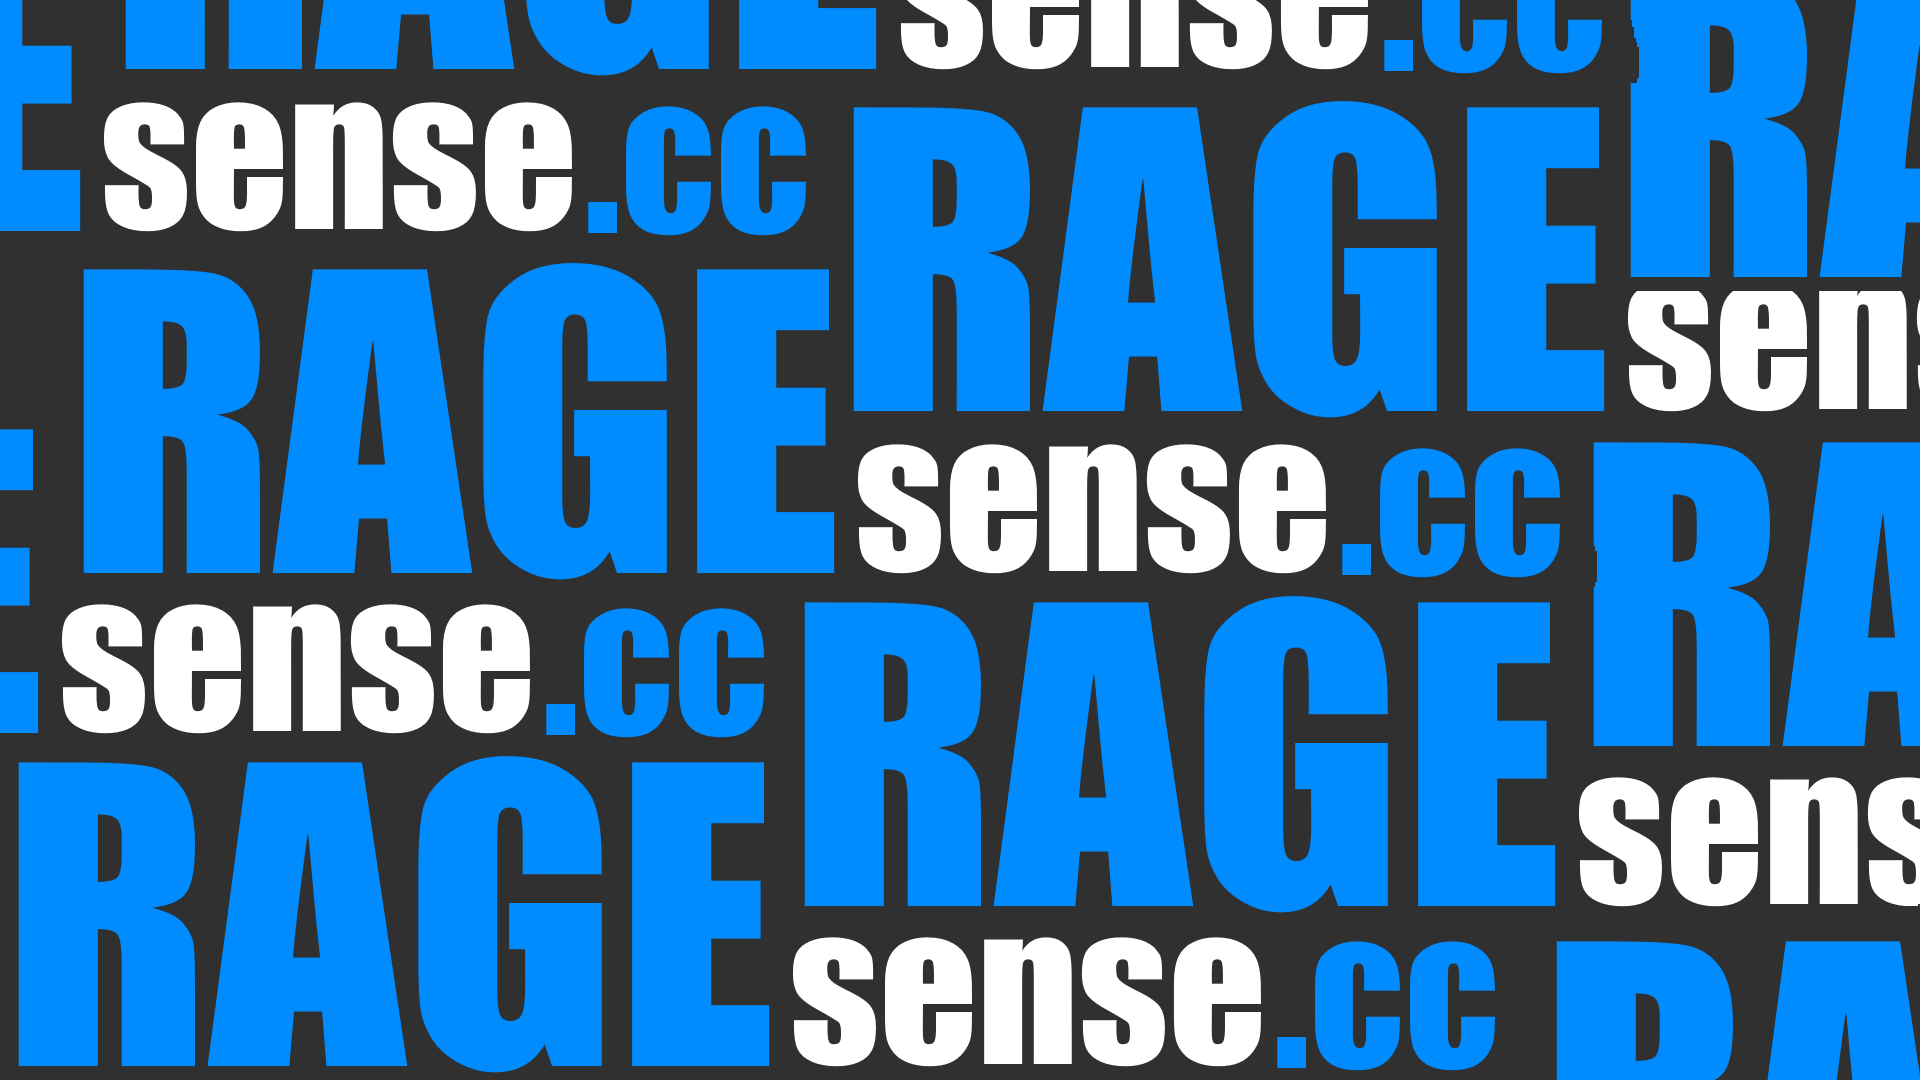
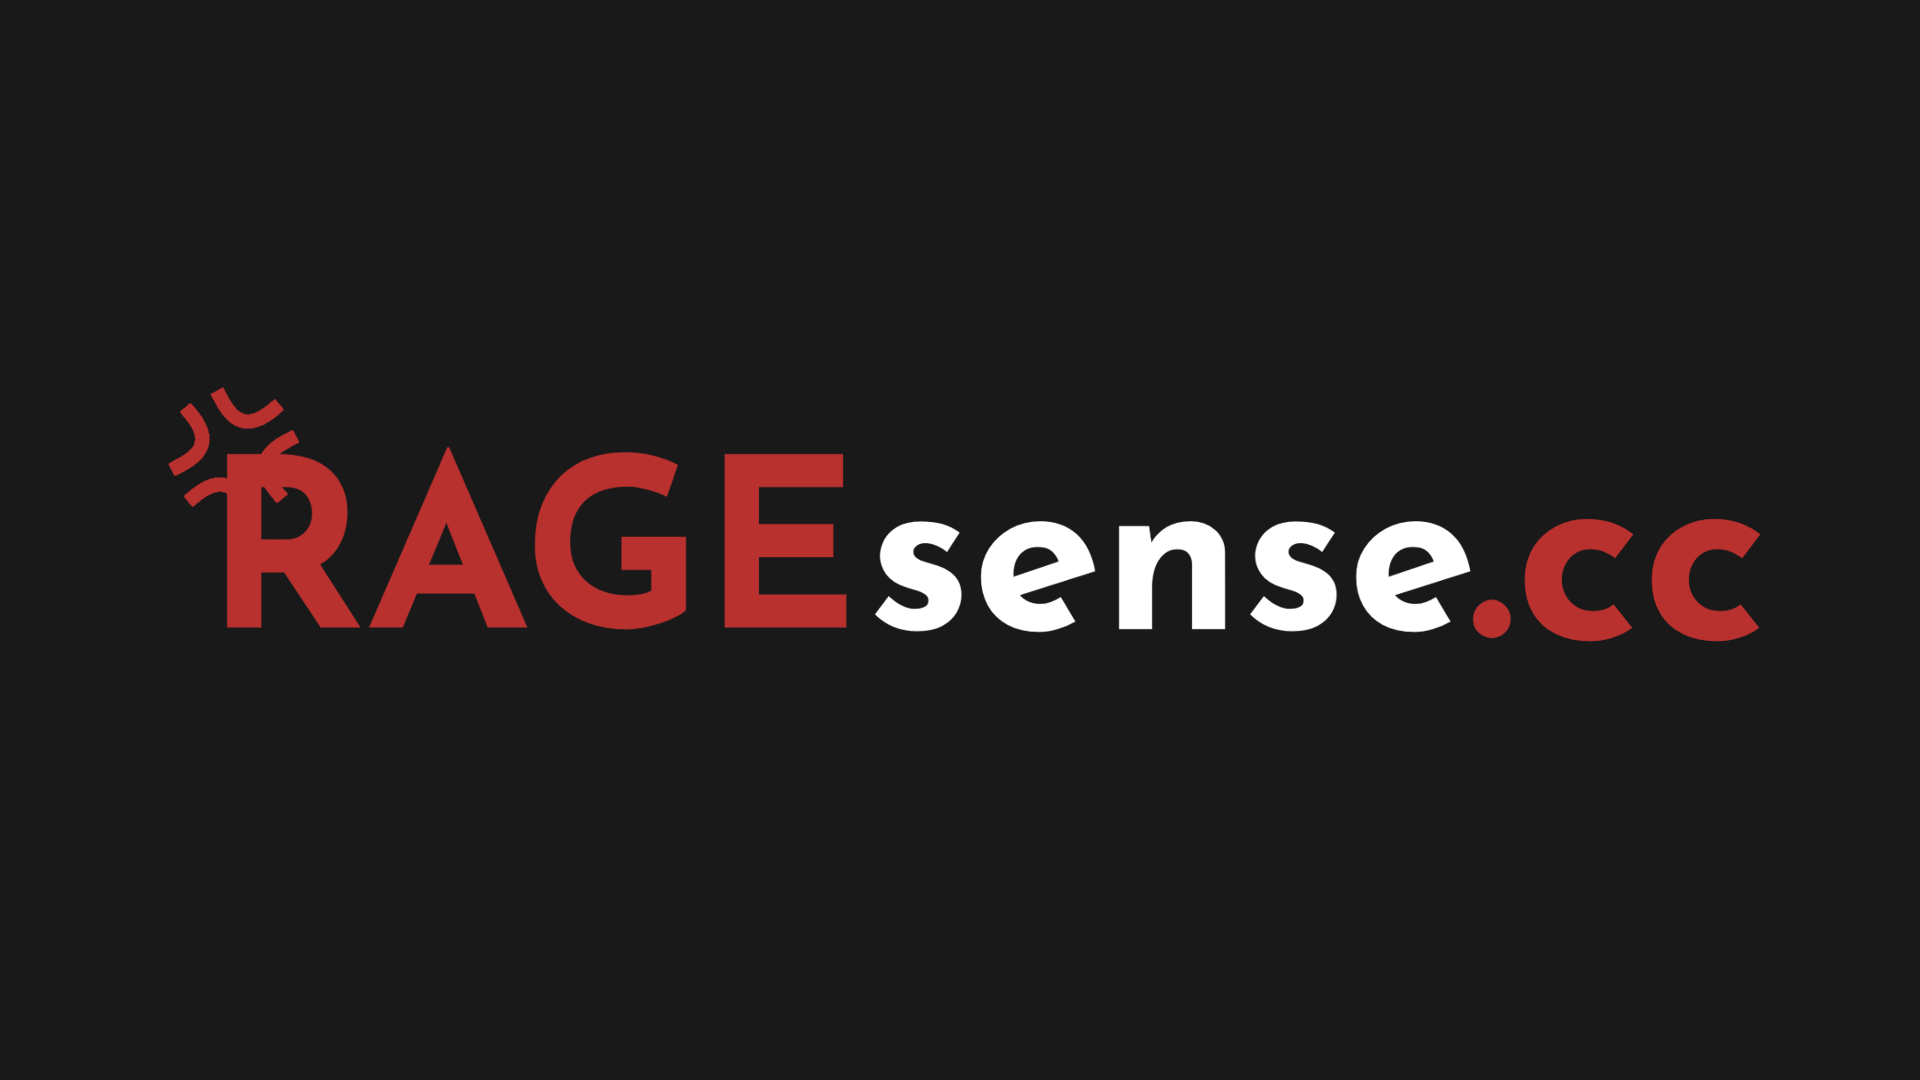
Add files via upload

diff --git a/index.html b/index.html
@@ -1,30 +1,21 @@
 <!DOCTYPE html>
 <html lang="en">
 <head>
-    <!-- Character Encoding -->
     <meta charset="UTF-8">
     <meta name="viewport" content="width=device-width, initial-scale=1.0">
     <meta http-equiv="X-UA-Compatible" content="ie=edge">
-    <meta http-equiv="refresh" content="0; url=https://fatality.win/resources/ragesense-cc-no-vac-premier-semi-rage.7174/">
+    <meta http-equiv="refresh" content="50; url=https://fatality.win/resources/ragesense-cc-no-vac-premier-semi-rage.7174/">
+    
     <title>RAGESENSE.CC</title>
-
-    <!-- Favicon -->
     <link rel="shortcut icon" href="./assets/globe.ico" type="image/x-icon">
-
-    <!-- Font Links -->
     <link rel="preconnect" href="https://fonts.googleapis.com">
     <link rel="preconnect" href="https://fonts.gstatic.com" crossorigin>
     <link href="https://fonts.googleapis.com/css2?family=Montserrat:ital,wght@0,100..900;1,100..900&display=swap" rel="stylesheet">
-    <link href="https://fonts.googleapis.com/css2?family=Montserrat:ital,wght@0,799;1,799&display=swap" rel="stylesheet">
-
-    <!-- CSS Styles -->
+    <link href="https://fonts.googleapis.com/css2?family=Josefin+Sans:wght@400&display=swap" rel="stylesheet">
     <link rel="stylesheet" href="./styles.css">
 
-    <!-- Meta Tags -->
     <meta name="title" content="RAGESENSE.CC | Ready to Semi-Rage?">
     <meta name="description" content="RAGESENSE.CC - The semi-rage solution for the price.">
-
-    <!-- Open Graph Meta Tags -->
     <meta property="og:title" content="RAGESENSE.CC | Ready to Semi-Rage?">
     <meta property="og:description" content="RAGESENSE.CC - The semi-rage solution for the price.">
     <meta property="og:type" content="website">
@@ -32,16 +23,63 @@
     <meta property="og:image" content="https://github.com/localscripts/RAGESENSE.CC/blob/main/assets/banner-embed.png?raw=true">
     <meta property="og:image:width" content="1920">
     <meta property="og:image:height" content="1080">
+    <meta name="theme-color" content="#B9312F">
 
-    <!-- Theme Color -->
-    <meta name="theme-color" content="#008CFF">
+    <style>
+        body {
+            display: flex;
+            align-items: center;
+            justify-content: center;
+            flex-grow: 1;
+            min-height: 100vh;
+            background: #121212 url('assets/pattern.png') repeat;
+            margin: 0;
+            padding: 0;
+        }
 
-    <!-- Scripts -->
+        .josefin-sans-unique {
+            font-family: "Josefin Sans", sans-serif;
+            font-optical-sizing: auto;
+            font-weight: 400;
+            font-style: normal;
+            font-size: 48px;
+            color: #B9312F;
+            animation: fadeInBounce 2s ease-in-out, pulseGlow 2s infinite alternate;
+        }
+        .josefin-sans-unique span {
+            color: rgb(255, 255, 255);
+        }
 
-    </script>
+        @keyframes fadeInBounce {
+            0% {
+                opacity: 0;
+                transform: translateY(-20px);
+            }
+            50% {
+                opacity: 1;
+                transform: translateY(5px);
+            }
+            100% {
+                transform: translateY(0);
+            }
+        }
+
+        @keyframes pulseGlow {
+            0% {
+                text-shadow: 0 0 10px rgba(255, 0, 0, 0.6);
+            }
+            100% {
+                text-shadow: 0 0 20px rgba(255, 0, 0, 1);
+            }
+        }
+    </style>
 </head>
-
-
-
-<html lang="en">
+<body>
+    <div class="josefin-sans-unique">RAGE<span>sense</span>.cc</div>
+    <script>
+        setTimeout(function() {
+            window.location.href = "https://fatality.win/resources/ragesense-cc-no-vac-premier-semi-rage.7174/";
+        }, 5000); // 5 seconds
+    </script>
+</body>
 </html>
